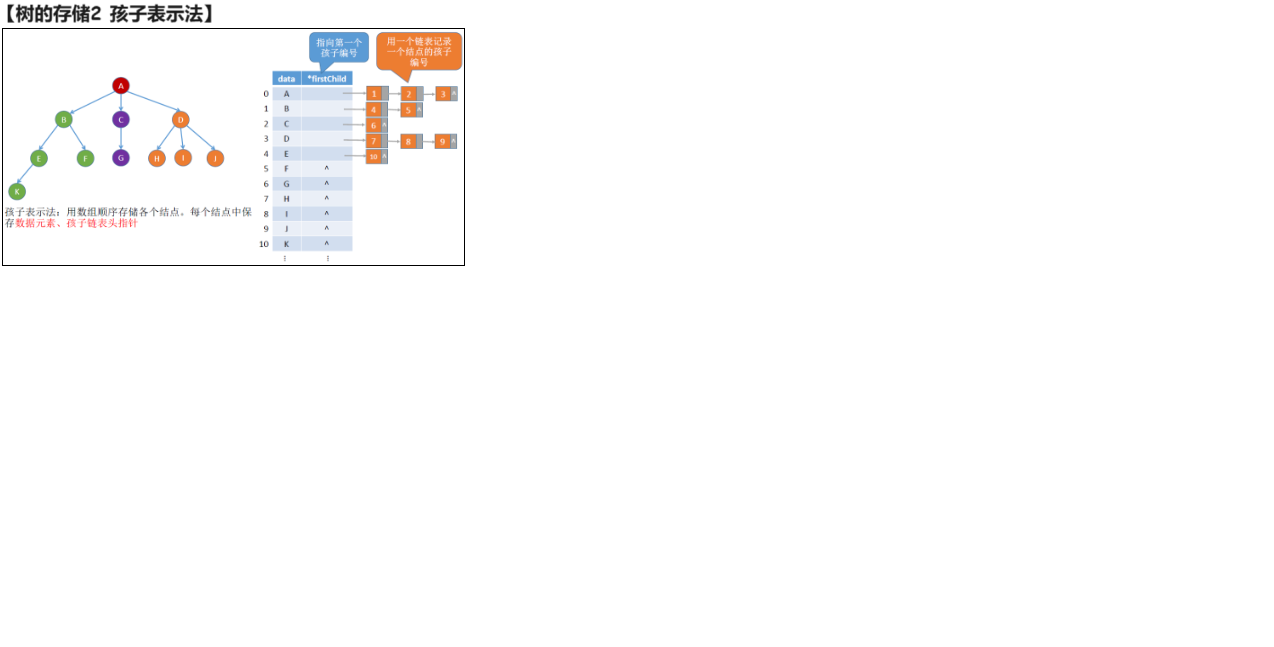
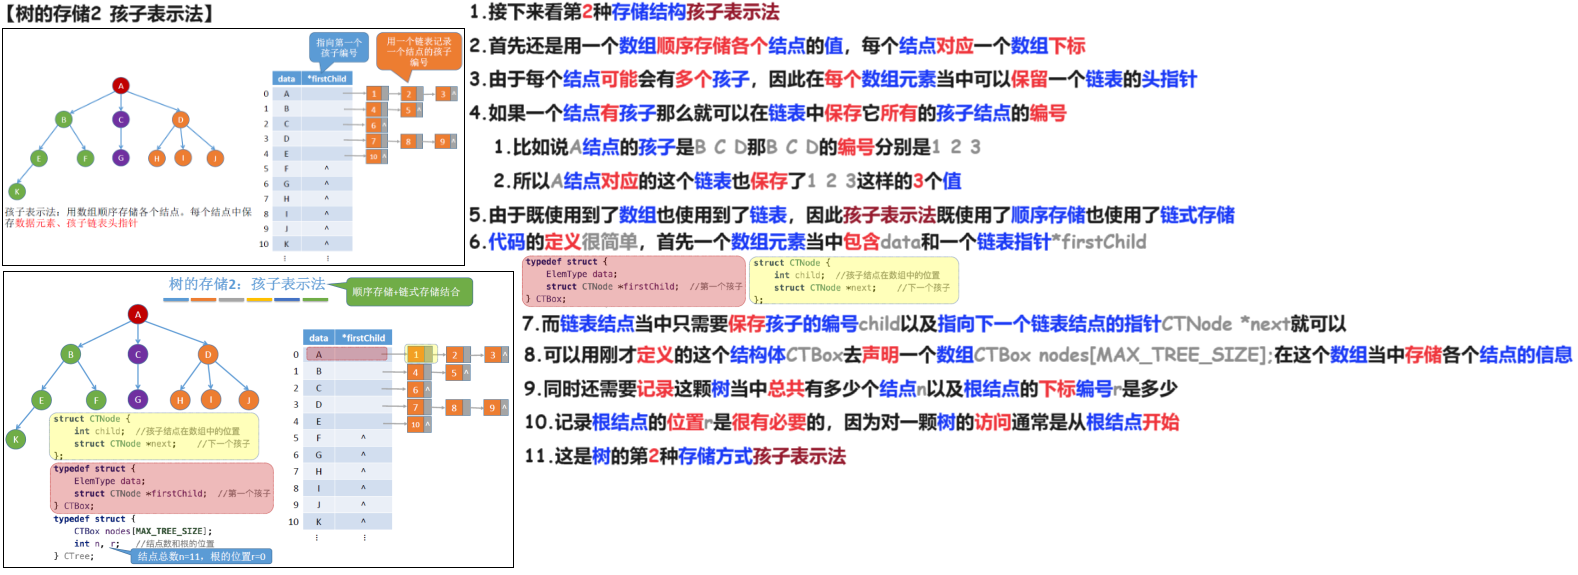
240402

Changed region(s): [[0.0, 0.0, 1.0, 1.0], [0.0306, 0.5322, 0.1224, 0.6504]]

diff --git a/01 初试/02 DS/02 24 王道 基础/05 树与二叉树/04 树 森林/01 树 存储结构 240402/02 Doc.md b/01 初试/02 DS/02 24 王道 基础/05 树与二叉树/04 树 森林/01 树 存储结构 240402/02 Doc.md
@@ -41,3 +41,5 @@
 
 
 # 08 树的存储2 孩子表示法
+
+<img src="https://cvp.oss-cn-shanghai.aliyuncs.com/picgo/202404021907491.png" alt="image-20240402190711235" style="zoom:50%;" />
